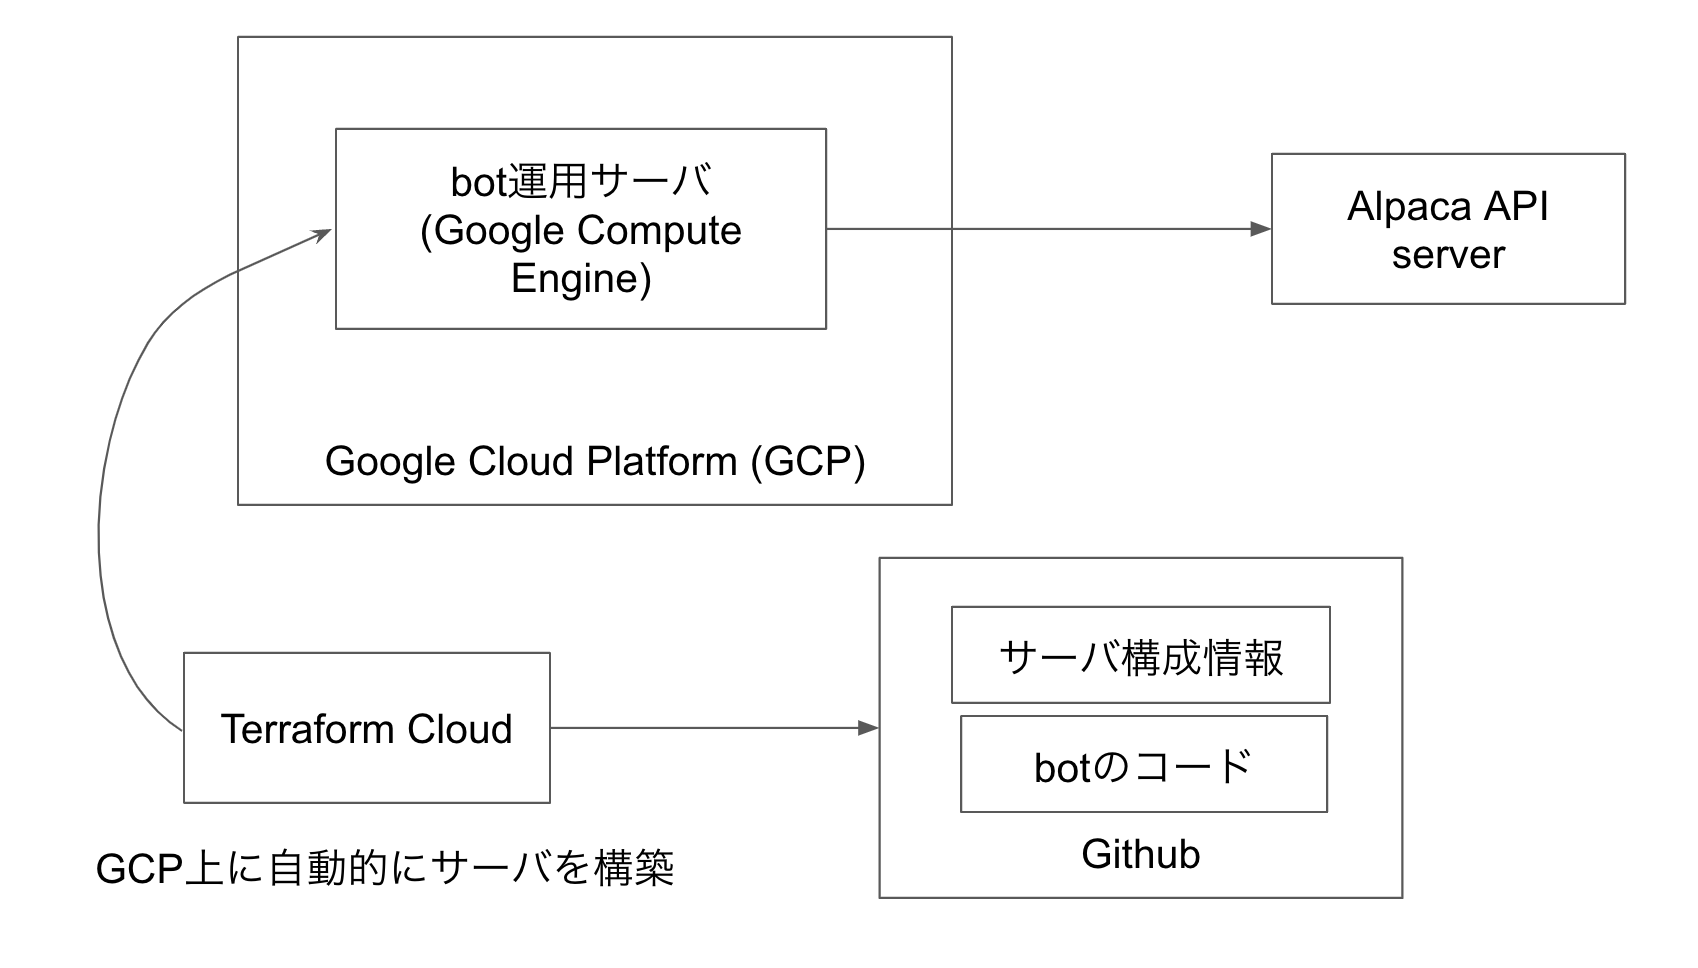
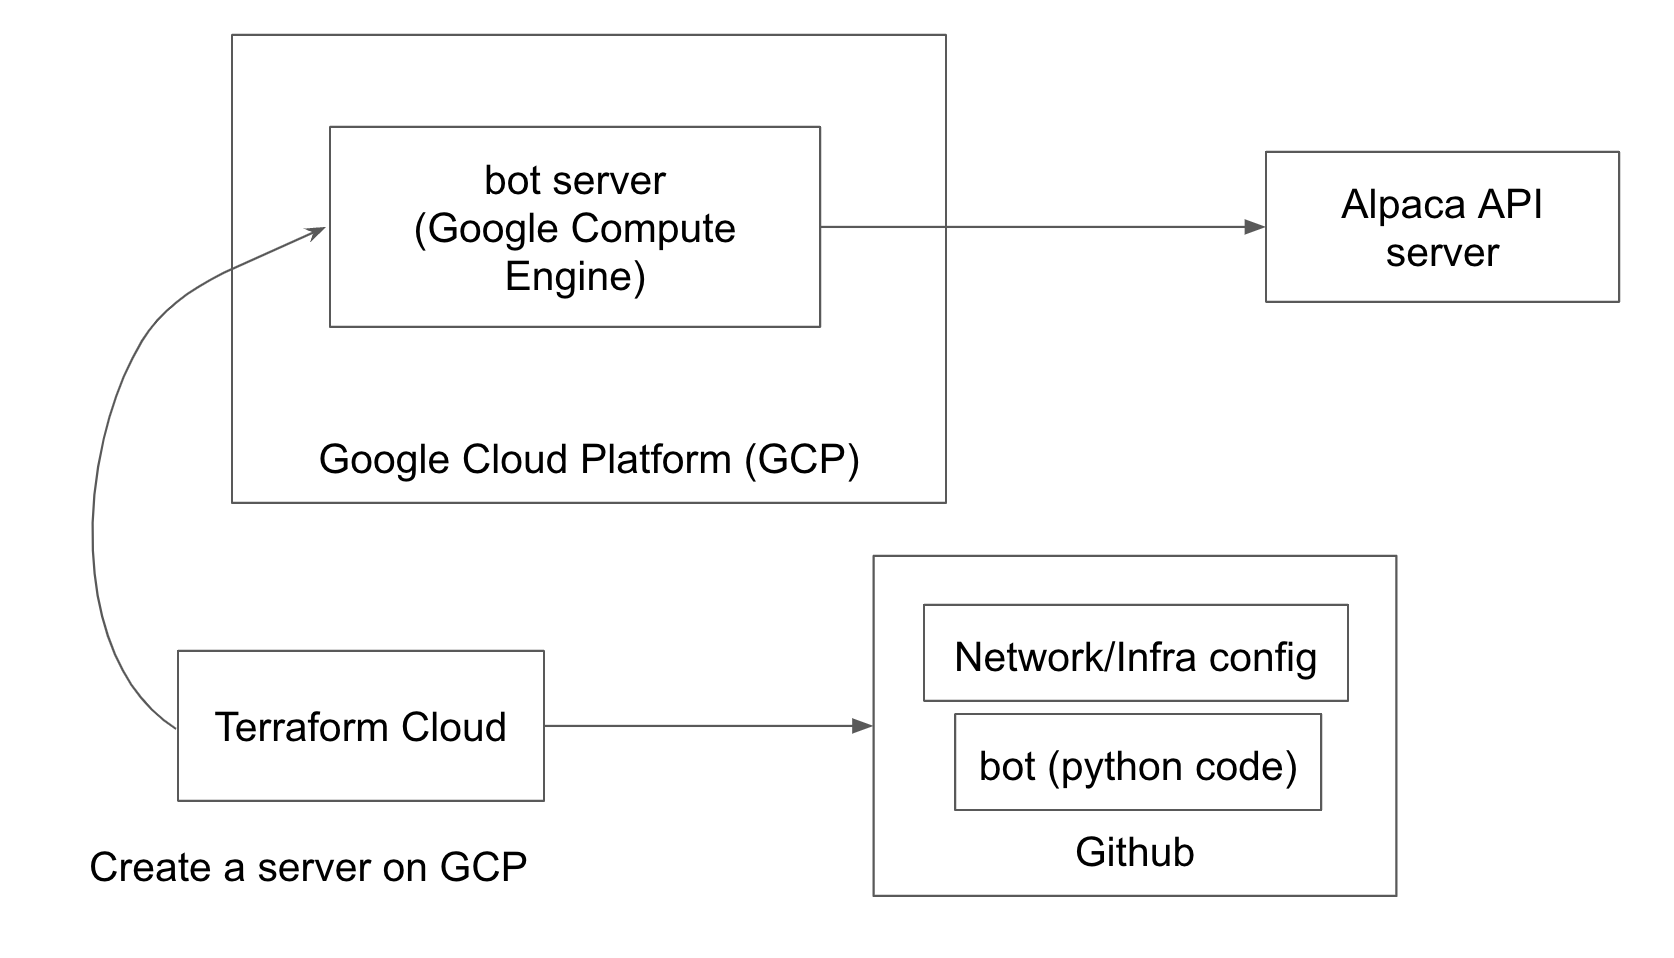
add more document

diff --git a/README.md b/README.md
@@ -1,83 +1,190 @@
-# bot用サーバの構築
+# Simple Bot environment
 
-自動トレードを行うbotを運用するには、運用者がいちいち起動や終了をしなくとも自動的にbotが動き続ける仕組みを用意する必要があります。
-インフラやネットワークが専門でない方にとってはここが高いハードルとなり、複雑なアルゴリズムを学んでもそれを実運用に持っていくことが難しいと感じるケースがあると思います。
+In order to operate an automated trading bot, it is necessary to prepare a mechanism that 
+allows the bot to automatically run without the operator having to start and stop it manually.
+This is a high hurdle for those who are not experts in infrastructure or networking. 
+Even if they know complex machine-learning algorithms, they may find it difficult to put them into actual operation.
 
-本リポジトリでは、10年サーバ開発・運用を行っている立場としてなるべくシンプルでおすすめのbot運用環境の構築方法を説明します。
-いくつか専門用語がわからなくとも、手順に従って作業をすすめることで誰でもbot運用が開始できることを目指します。
+In this repository, We will explain how to build a simple environment for running a bot.
+Even if you do not understand some network/infrastructure/cloud computing terms,
+we aim for you to be able to start bot operation by following the steps.
 
-データベース、ログ収集、サーバがダウンしたときにアラートを送る仕組み、CD/CI等、本格的なサービスを運用するにはこれだけでは足りないことは重々承知です。
-しかし個人がbot運用の第一歩を踏み出すにあたって、こちらの手順が参考になれば幸いです。
+Of course, we are aware that this is not enough to operate a full-fledged, production-scale service.
+Databases, log collection, a mechanism to send alerts when the server is down, CD/CI, and so on would be necessary.
+However, we hope this procedure will be helpful for those who are taking their first steps in automatic trading.
 
-# 本リポジトリで作るサーバ環境
+# Server environment created by this repository
 
 ![](img/system_arch.png)
 https://docs.google.com/presentation/d/1SyGSNEX8N3V8m4CkujqgTyiVN-Eeu1zUN4UCOVIs5Ss/edit?usp=sharing
 
-## Github上にbot用のリポジトリを作成する
+## Create a Github repository for the bot
 
-botアプリやサーバ構成のコードを保存し、後の手順でTerraform Cloudとの連携を容易に行うために、
-[Github](https://github.com/) リポジトリを作成します。私は bot というシンプルな名前でこのリポジトリを作ってみました。
-このリポジトリをforkして使用していただいても構いません。
-botのコードを公開したくない場合は、プライベートなリポジトリとして作成しても構いません。
+To store the code for the bot and network/infra configuration,
+a [Github](https://github.com/) repository is needed.
+I created dakimura/bot repository.
+You can start from forking the repo.
+If you don't want to make the repository public, 
+you can create an empty repository and copy-paste the contents of this repository.
 
-## Google Cloud Platformに登録(Sign Up)する
+## Sign up for Google Cloud Platform
 
-botを永続的に動かすには、botプログラムを動作させる(デプロイする)サーバが必要です。
-もちろん他のレンタルサーバや、AWS, Azureのようなクラウドサービスでも構わないのですが、ここではGoogle Cloud Platform (GCP) を使用します。
-GCPは2022年10月現在、毎月上限額までずっと無料で使える無料枠があり、 e2-microという小さなサイズのインスタンスであればずっと無料で動かし続けることができます。
-他のサービスにも無料枠はありますが、ずっと無料枠が維持されるのは現在GCPだけです。
+To run the bot for 24/7, you need a server on which to run (deploy) the bot program.
+Here we will use Google Cloud Platform (GCP). Of course, other rental servers or cloud services such as AWS and Azure are acceptable, 
+but As of October 2022, GCP has a free tier that allows you to keep running a small(e2-micro) instance for free for as long as you want,
+up to the maximum amount each month. Other services also offer free allowances, 
+but AFAIK GCP is the only one that keeps the free allowance for a long time.
 
-https://www.google.com/cloud からGoogle Cloud Platformに登録します。
+Sign up for Google Cloud Platform from [here](https://www.google.com/cloud)
 
-### Google Cloud Platformにプロジェクトを作成する
+### Create a project on Google Cloud Platform
 
-インスタンスなどのサーバリソースを作るには、Google Cloud Platform内にまず「プロジェクト」を作る必要があります。
-Google Cloud コンソール https://cloud.google.com › cloud-console を開いてサインインし、
-新しいプロジェクトを作成します。 ここでは私は `trade-bot` という名前でプロジェクトを作成しました。
+To create a server resource such as an Google Compute Engine instance, 
+you must first create a "project" on Google Cloud Platform.
+Open the Google Cloud console https://cloud.google.com' > cloud-console,
+sign in and Create a new project. I have created a project named `trade-bot`.
 
-### Google Cloud SDKをインストールする
+### install gcloud (Google Cloud SDK command line interface)
 
 https://cloud.google.com/sdk/docs/install
-を参考に、`gcloud` コマンドがターミナルから使用できるようにしましょう。
+Make sure the `gcloud` command is available from the terminal.
 
-### Google Cloudにログインし、サービスアカウントを作成する
+### Sign in Google Cloud and create a service account
+A service account is a special type of Google account intended to represent 
+a non-human user that needs to authenticate and be authorized to access data in Google APIs.
 
-あなたのGoogle Cloud Platformアカウント上にTerraformを使ってサーバを自動的に構築するには、
-Terraformに認証情報を渡す必要があります。Google Cloud Platform上では、
-権限を付与したサービスアカウントという情報を用いてそれを実現することができます。
+In the steps that follow, we will build our server on the Google Cloud Platform using a service called Terraform.
+To automatically build a server using Terraform on your Google Cloud Platform account, 
+ you need to pass the service account information to Terraform.
 
-`gcloud auth application-default login` コマンドを使って、まずgcloudコマンドが正しくインストールされているか確かめましょう。
-Googleアカウントにログインした後、[Cloud SDK 認証の完了](https://cloud.google.com/sdk/auth_success) という画面がブラウザ上に表示されたら成功です。
+Let's use the `gcloud auth login` command to first make sure that the gcloud command is properly installed.
+After logging in to your Google account, You have succeeded if the screen [You are now authenticated with the gcloud CLI!](https://cloud.google.com/sdk/auth_success) appears in your browser.
 
-https://blog.blackcoffy.net/posts/create-service-accounts-on-gcloud-iam を参考に、サービスアカウントを作成しましょう。
+Let's create a service account by referring to https://cloud.google.com/iam/docs/creating-managing-service-accounts.
 
+Confirm the GCP project you created and set the project. 
+Please replace the project name(trade-bot-123456) below with your own,
 ```bash
-gcloud iam service-accounts create trade-bot \
---description="システムトレード用のServiceAccount" \
---display-name="trade-bot"
+ $ gcloud projects list
+PROJECT_ID              NAME                  PROJECT_NUMBER
+trade-bot-123456        trade-bot             123456789012
+
+$ gcloud config set project trade-bot-123456
+Updated property [core/project].
 ```
 
-## Terraform Cloudに登録(Sign Up)する
+and create a service account.
+```bash
+$ gcloud iam service-accounts create trade-bot \
+--description="ServiceAccount for my trading bot" \
+--display-name="trade-bot"
 
-サーバの構築などを自動的に管理してもらうために、Terraform Cloudを使用します。アカウント登録が必要です。
-https://app.terraform.io/public/signup/account
+Created service account [trade-bot].
+```
 
-アカウントを登録し、メールアドレスの確認などを完了させます。
+Grant the `roles/owner` role (privilege) to the service account.
+This is a very strong permission, so please be very careful when handling the service account.
 
-### どうしてStreamlit Cloudをデプロイ先として使わないのか
+```bash
+gcloud projects add-iam-policy-binding trade-bot-123456 \
+--member="serviceAccount:trade-bot@trade-bot-123456.iam.gserviceaccount.com" \
+--role=roles/owner
+
+Updated IAM policy for project [trade-bot-123456].
+bindings:
+- members:
+  - serviceAccount:trade-bot@trade-bot-123456.iam.gserviceaccount.com
+  - user:example@example.com
+  role: roles/owner
+etag: XXXXXXXXXXXX
+version: 1
+```
+
+To pass the service account information, create a key and download it to your localhost.
+https://cloud.google.com/iam/docs/creating-managing-service-account-keys#iam-service-account-keys-create-gcloud
+
+(Please replace the local file path, service account name, and project ID to your own)
+```bash
+$ gcloud iam service-accounts keys create /Users/dakimura/Desktop/sa-trade-bot-private-key.json \
+    --iam-account=trade-bot@trade-bot-123456.iam.gserviceaccount.com
+    
+created key [XXXXXXXXXXXXXXXXXXXXXXXXXXXXXXXXXXXXXXXX] of type [json] as [/Users/dakimura/Desktop/sa-trade-bot-private-key.json] for [trade-bot@trade-bot-123456.iam.gserviceaccount.com]
+```
+DO NOT share the downloaded private key file with anyone.
+
+Once again, because it's important.
+
+DO NOT share the downloaded private key file with anyone.
+
+Also, you cannot download the private key file again. If you accidentally lose the file or share the file with someone,
+please immediately delete it by the following command:
+```bash
+gcloud iam service-accounts keys delete /Users/dakimura/Desktop/sa-trade-bot-private-key.json --iam-account=trade-bot@trade-bot-123456.iam.gserviceaccount.com
+```
+
+## Sign up for Terraform Cloud
+To configure the bot server automatically, we use Terraform Cloud.
+Please register an account with [Terraform Cloud](https://app.terraform.io/public/signup/account).
+and confirm your e-mail address after the registration.
+
+### Create a workspace in Terraform Cloud
+Create a workspace by following the steps at: https://www.terraform.io/cloud-docs/workspaces/creating#create-a-workspace.
+Set the service account you created as a variable in Terraform Cloud.
+
+### Connect Terraform to your Github repository
+//TODO:
+
+### Register Service account key to Terraform Cloud
+After creating a workspace, we register the downloaded GCP service account key to Terraform cloud.
+
+
+![](img/reg_env_var_tf_cloud.png)
+Environmental Variable does not accept new lines, so remove the value by the following command and copy-paste.
+(If)
+```bash
+$ brew install jq
+$ jq -c < /Users/dakimura/Desktop/sa-trade-bot-private-key.json
+```
+Please check on `Sensitive`, and save the variable.
+
+
+## FAQ
+
+### What are Terraform and Terraform cloud, and why are they necessary?
+
+Terraform is an open-source infrastructure as code(IaaC) software tool that
+enables you to safely and predictably create, change, and improve infrastructure.
+Here we are going to create a server for the bot, but probably you don't want to care about:
+- Does the server cost a lot?
+- Is the server opening a proper port?
+- Can I delete the server when I want to?
+
+You don't have to worry because all those kind of settings are stored in the text files (.tf files) on this repository.
+You can reproduce the infrastructure anytime without learning much about Google Cloud.
+
+In short, Terraform will manage the state of your server and network settings.
+To store the state, Terraform needs to be integrated with your Github repository and GCP account.
+Terraform Cloud does it, and you don't have to care where the Terraform commands are run.
+
+As of October 2022, Terraform Cloud is free to use for up to 5 users with unlimited number of workspaces. 
+https://www.hashicorp.com/products/terraform/pricing
+
+Of course, you can build a server and network infrastructure at GCP console(=Web UI), 
+so Terraform is not a must if you know how to do it.
+
+### Your python code uses Streamlit. Why don't you use Streamlit Cloud?
 
 https://discuss.streamlit.io/t/does-streamlit-has-a-maximum-run-time-for-functions/22452/3
-Streamlitはダッシュボード機能のようなwebアプリを対象にしており、処理のタイムアウトも起きる。
-そのため、ユーザから何のアクションが無くとも永続的にデータを取得し、トレードを行うようなbotの用途には向かないと判断しました。
+Streamlit is intended for web applications such as dashboard feature, and it has processing timeouts.
+So we determined that it is not suitable for bot applications that persistently retrieve data and make trades without any action from the user.
 
-### Terraformをインストールする
+### Install Terraform command line interface
 
-https://app.terraform.io/app/getting-started から Try an example configurationを選択し、
-内容に従ってTerraformコマンドをインストールします。
+Choose "Try an example configuration" at https://app.terraform.io/app/getting-started
+and install Terraform command by following the instruction.
 https://app.terraform.io/app/getting-started/example
 
-私の場合はmacを使っているので、下記2コマンドを使用してインストールしました。
+I'm using mac, so installed it by the following 2 commands:
 ```bash
 $ brew tap hashicorp/tap
 $ brew install hashicorp/tap/terraform
@@ -87,39 +194,38 @@ Terraform v1.3.1
 on darwin_arm64
 ```
 
-## Terraform Cloudを使用してインスタンスを生成する
+## Create a server using Terraform Cloud
 
-### Terraform Cloud内にワークスペースを作成する
 
-こちらの作業に関しては
-https://www.niandc.co.jp/sol/tech/date20191002_1814.php
-のページが参考になります。
-サービスアカウントの作成とその環境変数への設定も必要になります。
 
-## サーバ内でボットを動かす
+## run a bot on your server
 ```bash
 streamlit run /Users/dakimura/projects/src/github.com/dakimura/bot/bot.py
 ```
 
-デーモン(≒バックグラウンドで動き続ける)ようにしたいですし、最低限のログは見たい。
-ポートは443番を使いたい…etcを考えると、 以下のようなコマンドを使うとよいでしょう。
-
-### systemctlのサービスとして登録しないのですか？
-分かる方はもちろん書いてもいいです。ここでは
-
-
+Probably you want to run it as a daemon(=a kind of background process)
+and use 443 port, so you would use the following command to start the bot:
 ```bash
 ```
 
-### Dockerは使わないのですか？
-もちろん使ってよいです！Google Container RegistryへのDockerイメージの登録やサーバインスタンス側でのDocker pull設定など
-面倒な作業も増えるので、それはまた次のステップと考え、ここでは
-小さなインスタンス([e2-micro](https://cloud.google.com/compute/vm-instance-pricing?hl=ja#e2_sharedcore_machine_types))を使用しているので
-Dockerにリソースを取られるのももったいないという考えもあります。
+### Don't we use Docker?
+Actually, we should use Docker.
+But it's time-consuming and difficult to register the docker image to Google Container Registry and 
+configure the permission to pull the image from the GCE instance, so we think it as a nice-to-have but not must-have thing.
 
-### 作ったサーバにSSHしたいのですが
+Also, because we are using a tiny([e2-micro](https://cloud.google.com/compute/vm-instance-pricing?hl=ja#e2_sharedcore_machine_types)) instance,
+so we should not use much resource to the Docker daemon.
 
-`gcloud compute --project "trade-bot" ssh --zone "us-central1" "trade-bot"`
-こちらのコマンドでサーバにSSHできるはずです。
-もちろん分かる方はSSH鍵ペアを作って `.ssh/authorized_keys` に公開鍵を登録してSSH用のポートを開放して...という手順をとっても構いません。
+### Don't we register the bot as a systemctl service?
+For simplicity, we didn't explain how to do it.
+You can do so if you know how to do it.
+
+
+### How can I SSH to the server?
+
+You can SSH-login to the server by using the following command:
+(Replace the project name and instance name with your own.)
+```bash
+gcloud compute --project "trade-bot-123456" ssh --zone "us-central1" "trade-bot"
+```
 
